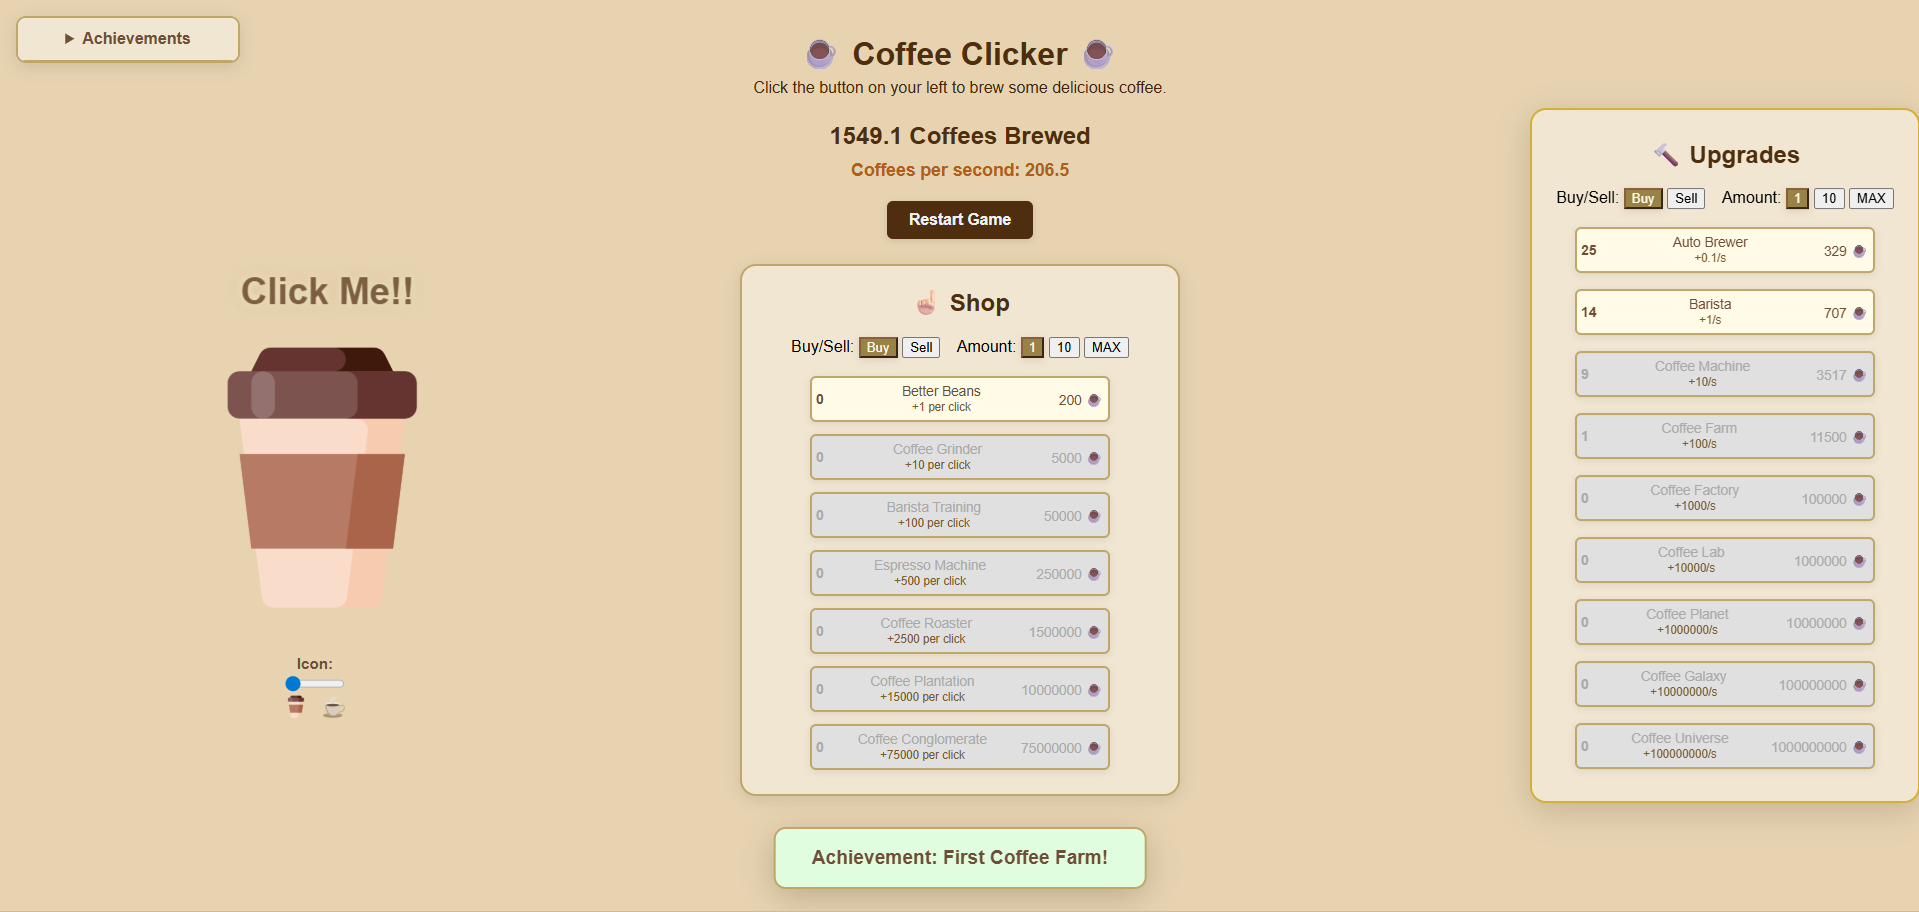
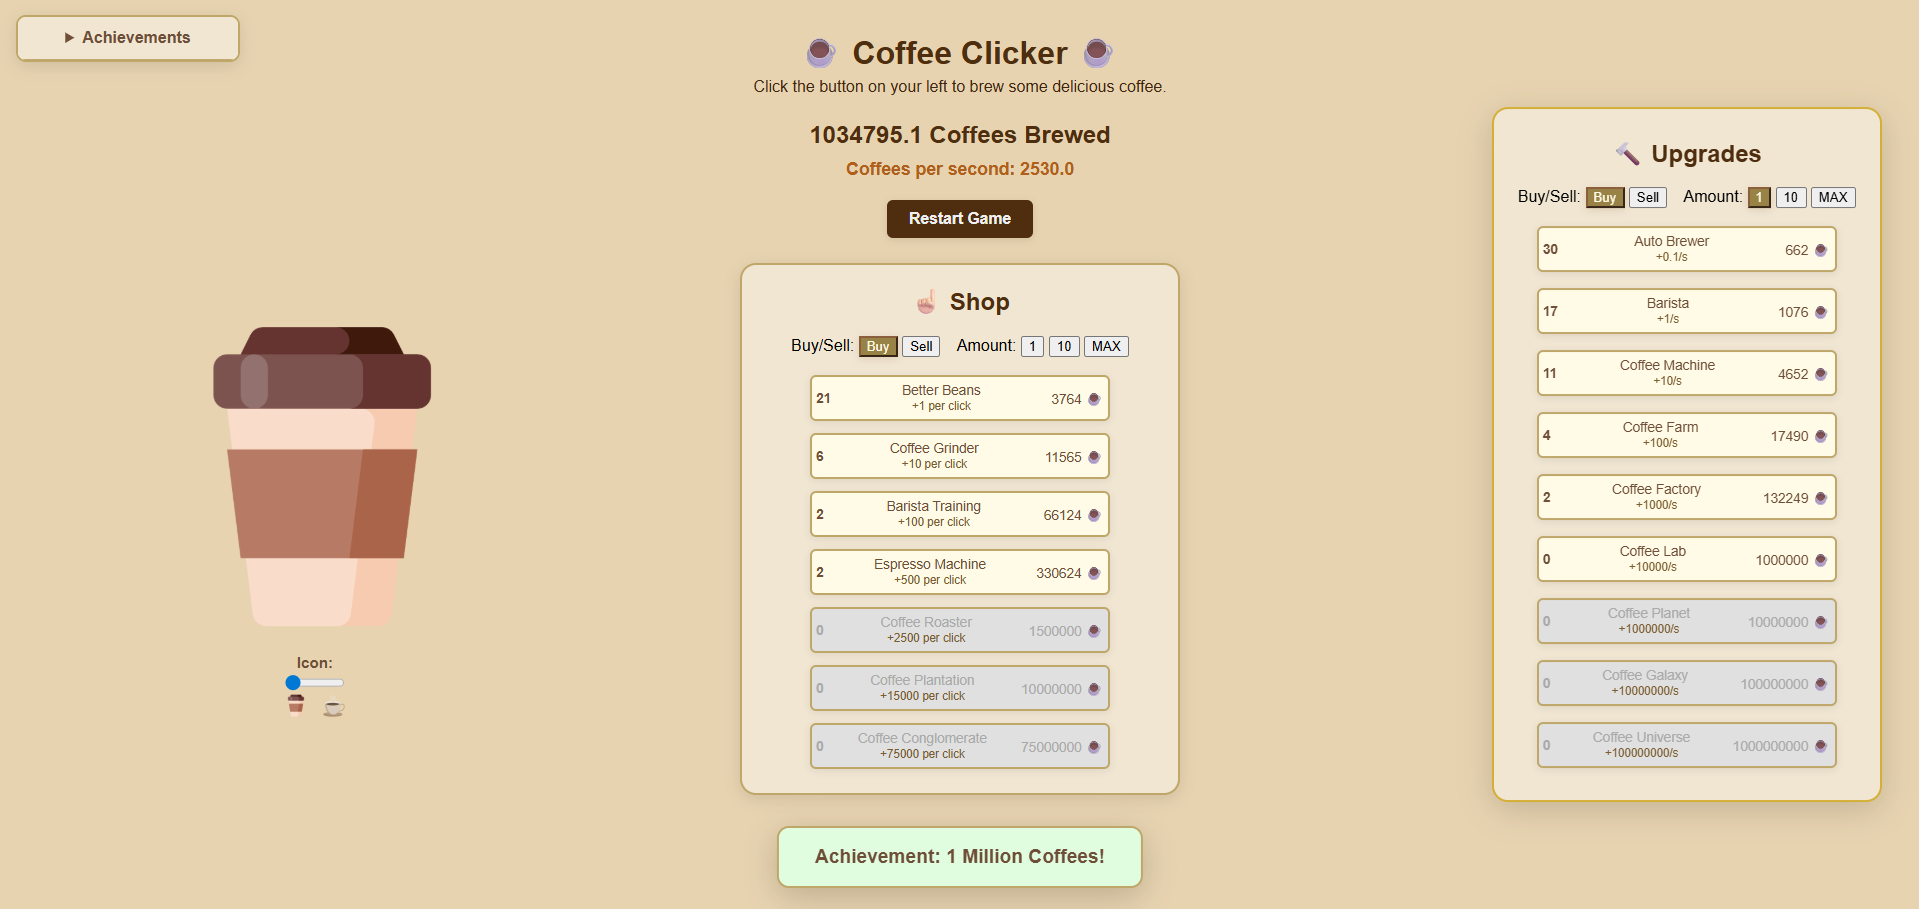
save shopUpgrades in local storage

diff --git a/web/main_page.js b/web/main_page.js
@@ -11,6 +11,7 @@ document.getElementById('restart-game').addEventListener('click', () => {
         window.bonusCoffeeClicks = 0;
         window.firstSell = false;
         upgrades.forEach(u => { u.owned = 0; u.cost = u.baseCost; });
+        shopUpgrades.forEach(u => { u.owned = 0; u.cost = u.baseCost; });
         if (typeof unlockedAchievements !== 'undefined') unlockedAchievements = new Set();
         updateCPS();
         updateDisplay();
@@ -143,6 +144,14 @@ function loadGame() {
                 }
             });
         }
+        if (saved.shopUpgrades) {
+            shopUpgrades.forEach((u, i) => {
+                if (saved.shopUpgrades[i]) {
+                    u.owned = saved.shopUpgrades[i].owned || 0;
+                    u.cost = saved.shopUpgrades[i].cost || u.baseCost;
+                }
+            });
+        }
     }
 }
 
@@ -151,6 +160,7 @@ function saveGame() {
         coffeeCount,
         coffeesPerSecond,
         upgrades,
+        shopUpgrades,
         totalClicks,
         totalCoffeesCollected
     }));
@@ -254,8 +264,8 @@ function buyShopUpgrade(index) {
             for (let i = 0; i < maxAmount; i++) {
                 if (coffeeCount >= totalCost + tempCost) {
                     totalCost += tempCost;
+                    tempCost = Math.floor(upgrade.baseCost * Math.pow(1.15, upgrade.owned + canBuy + 1));
                     canBuy++;
-                    tempCost = Math.floor(upgrade.baseCost * Math.pow(1.15, upgrade.owned + canBuy));
                 } else {
                     break;
                 }
